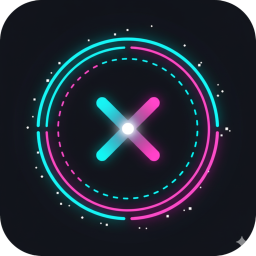
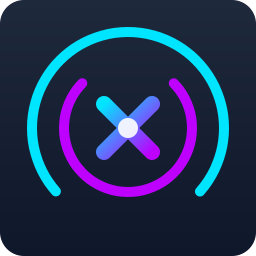
更新产品图标

diff --git a/src/ai_write_x/utils/utils.py b/src/ai_write_x/utils/utils.py
@@ -41,17 +41,42 @@ def mkdir(path, clean=False):
 
 
 def get_is_release_ver():
-    if getattr(sys, "frozen", None):
+    """
+    检测是否为打包版本
+    注意：Nuitka 打包后 sys.frozen 也会是 True，所以 hasattr(sys, "frozen") 能同时检测两者
+    """
+    if hasattr(sys, "frozen"):
         return True
-    else:
-        return False
+    if "__compiled__" in globals():
+        return True
+    return False
 
 
-def get_res_path(file_name, basedir=""):
+def get_res_path(relative_path, basedir=""):
+    """
+    获取资源文件的绝对路径
+    兼容：IDE运行、PyInstaller打包、Nuitka打包
+    Args:
+        relative_path: 相对路径，例如 "resources/UI/icon.ico"
+        basedir: 开发环境下的基准路径（可选）
+    """
     if get_is_release_ver():
-        return os.path.join(sys._MEIPASS, file_name)  # type: ignore
+        # 1. PyInstaller 专有逻辑 (解压到临时目录 _MEIPASS)
+        if hasattr(sys, "_MEIPASS"):
+            return os.path.join(sys._MEIPASS, relative_path)
 
-    return os.path.join(basedir, file_name)
+        # 2. Nuitka (Standalone) 或 PyInstaller (Onedir) 逻辑
+        # 资源文件位于可执行文件同级目录下
+        exe_dir = os.path.dirname(sys.executable)
+        return os.path.join(exe_dir, relative_path)
+
+    # 3. 开发环境 (IDE)
+    # 默认使用当前文件的目录，或者传入的 basedir
+    # 如果 basedir 为空，尝试自动定位到项目根目录（假设 main.py 在根目录）
+    if not basedir:
+        basedir = os.path.dirname(os.path.abspath(__file__))
+
+    return os.path.join(basedir, relative_path)
 
 
 def get_random_platform(platforms):

diff --git a/main.py b/main.py
@@ -1,4 +1,3 @@
-#!/usr/bin/python
 # -*- coding: UTF-8 -*-
 
 import multiprocessing
@@ -8,31 +7,6 @@ import os
 os.environ["PYTHONIOENCODING"] = "utf-8"
 
 from aiforge import AIForgeEngine  # noqa
-
-# 帮助 PyInstaller 检测依赖 (永远不会执行)
-if False:
-    import fastapi  # noqa
-    import uvicorn  # noqa
-    import webview  # noqa
-    import jinja2  # noqa
-    import pystray  # noqa
-    import yaml  # noqa
-    import tomlkit  # noqa
-    import peewee  # noqa
-    from playhouse.sqlite_ext import SqliteExtDatabase  # noqa
-    from src.ai_write_x.web import webview_gui  # noqa
-    from src.ai_write_x.web import app  # noqa
-    from src.ai_write_x.config import config  # noqa
-    from src.ai_write_x import crew_main  # noqa
-    import bs4  # noqa
-    import requests  # noqa
-    from PIL import Image  # noqa
-    import markdown  # noqa
-    from crewai import Agent, Crew, Process, Task  # noqa
-    from crewai.project import CrewBase, agent, crew, task  # noqa
-    import chromadb  # noqa
-    import onnxruntime  # noqa
-    from rich.console import Console  # noqa
 
 
 def run():
